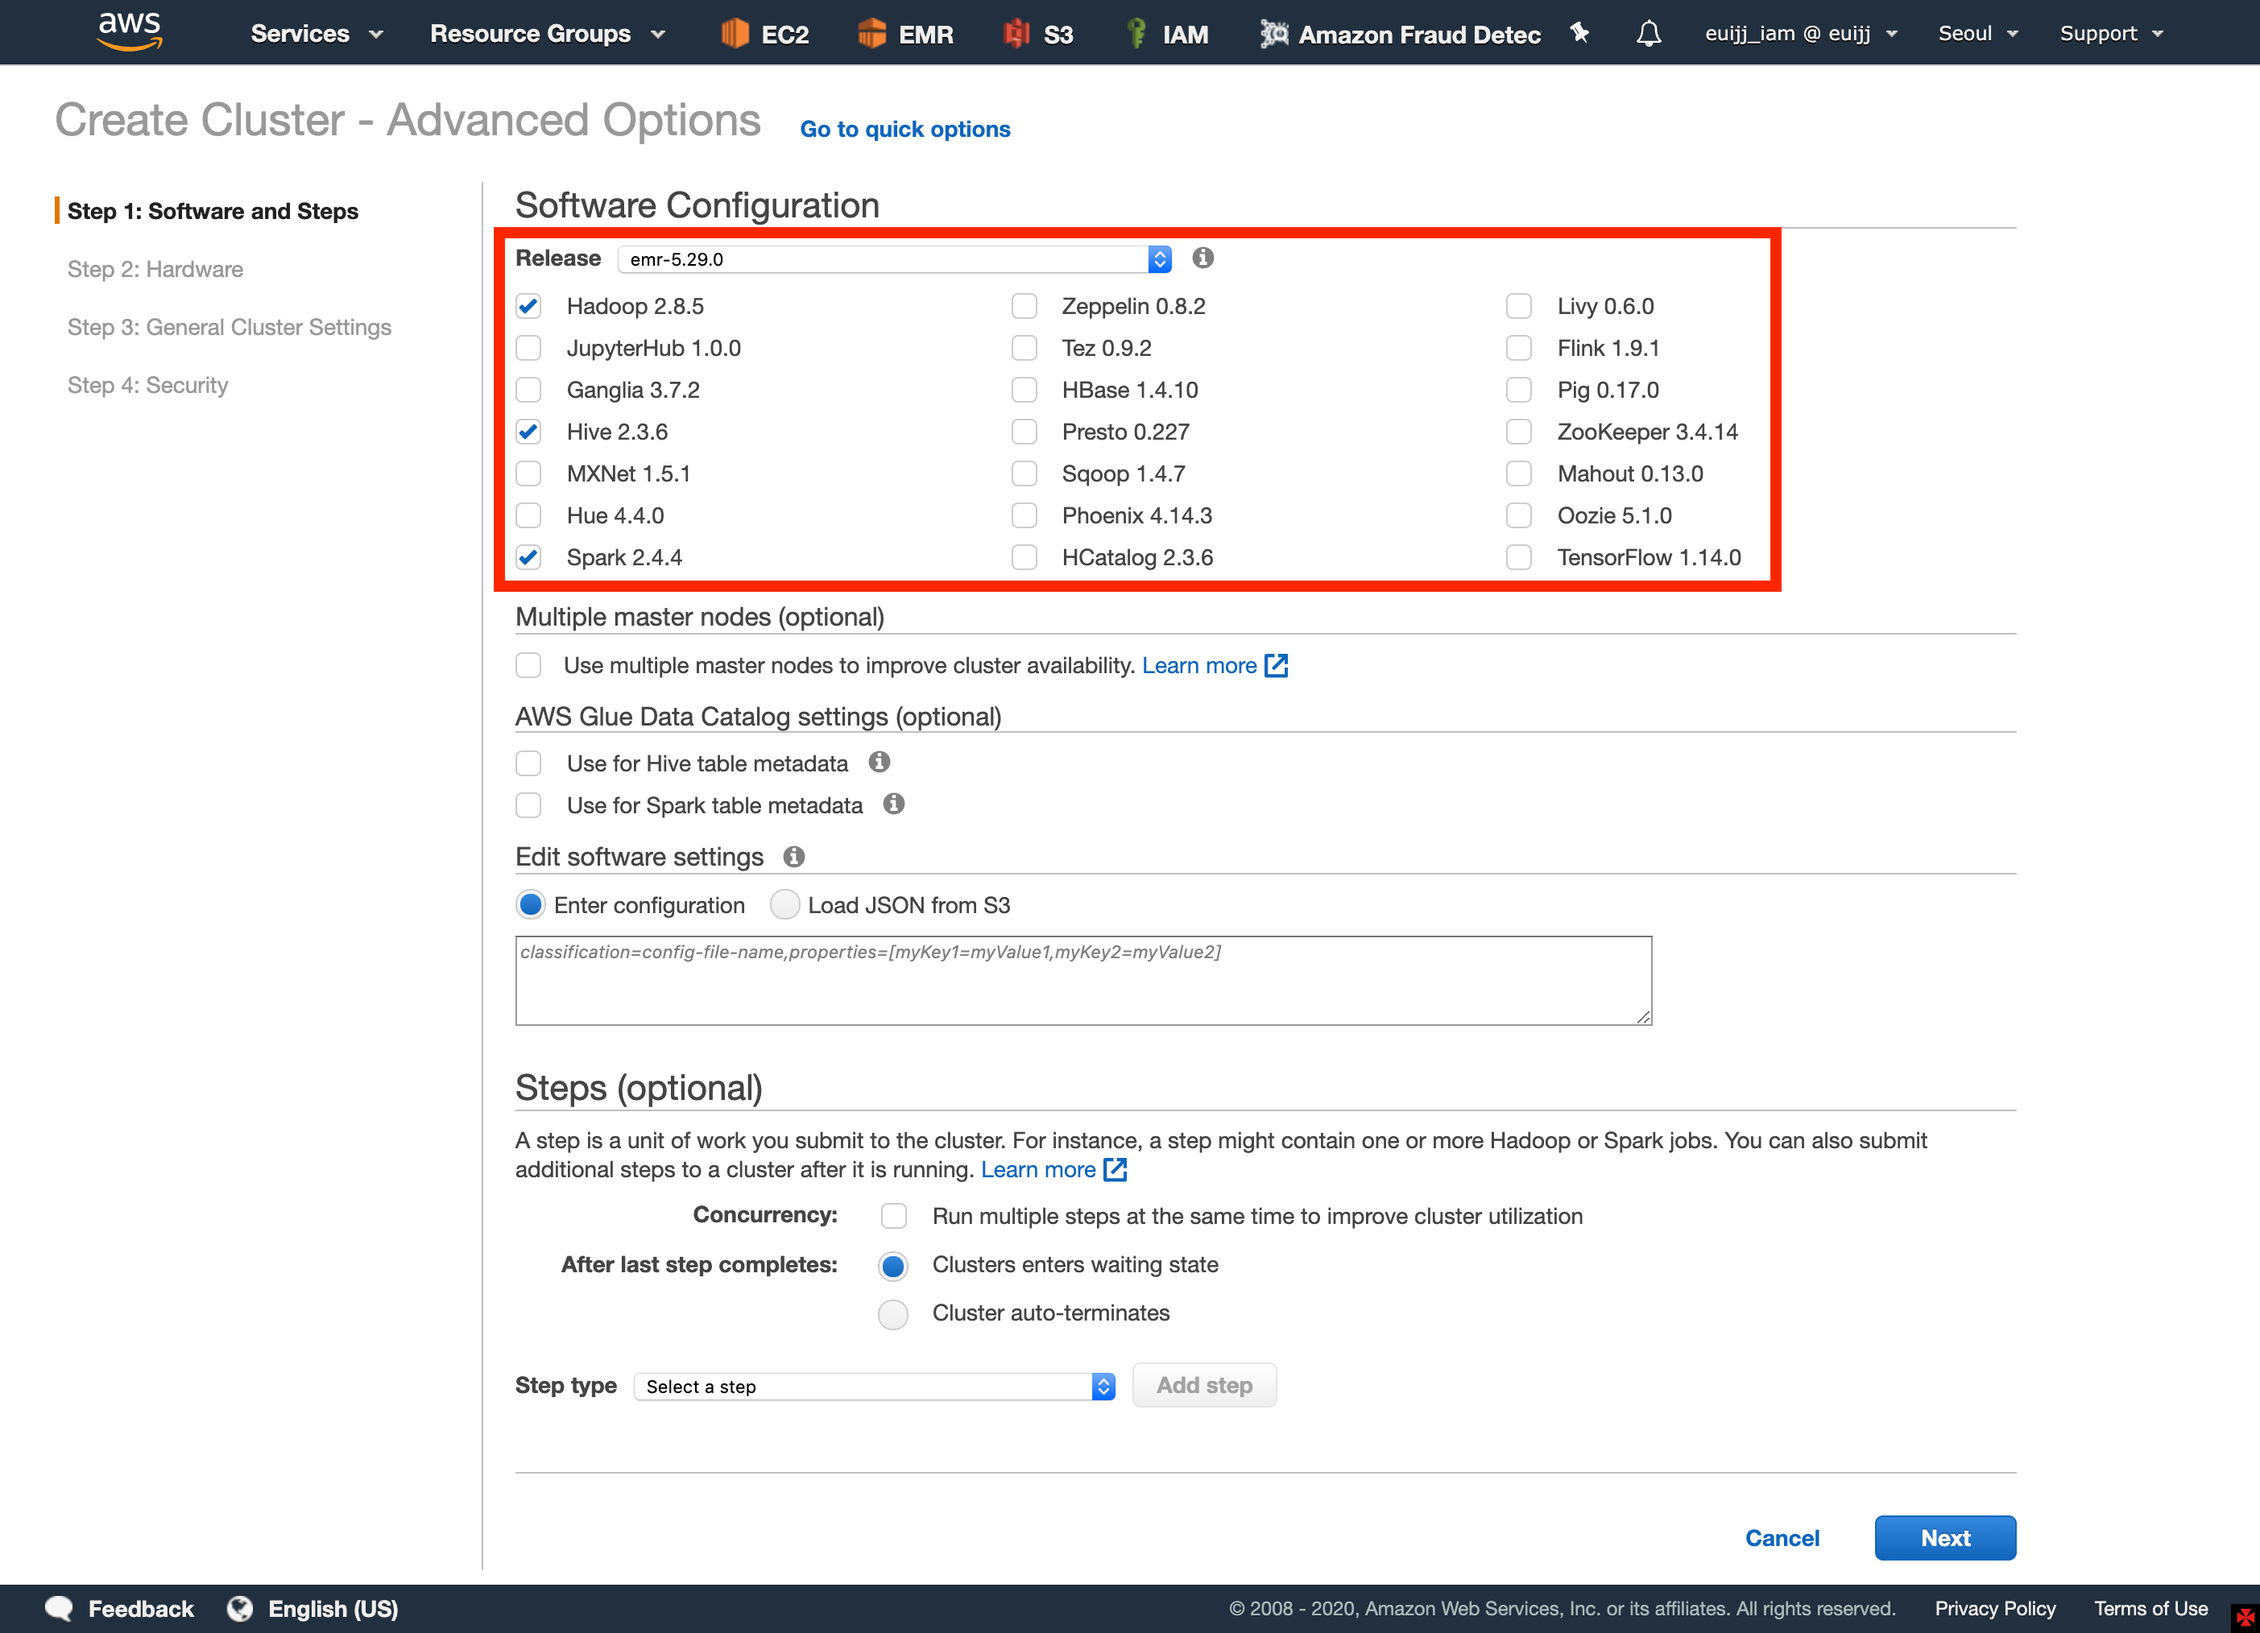
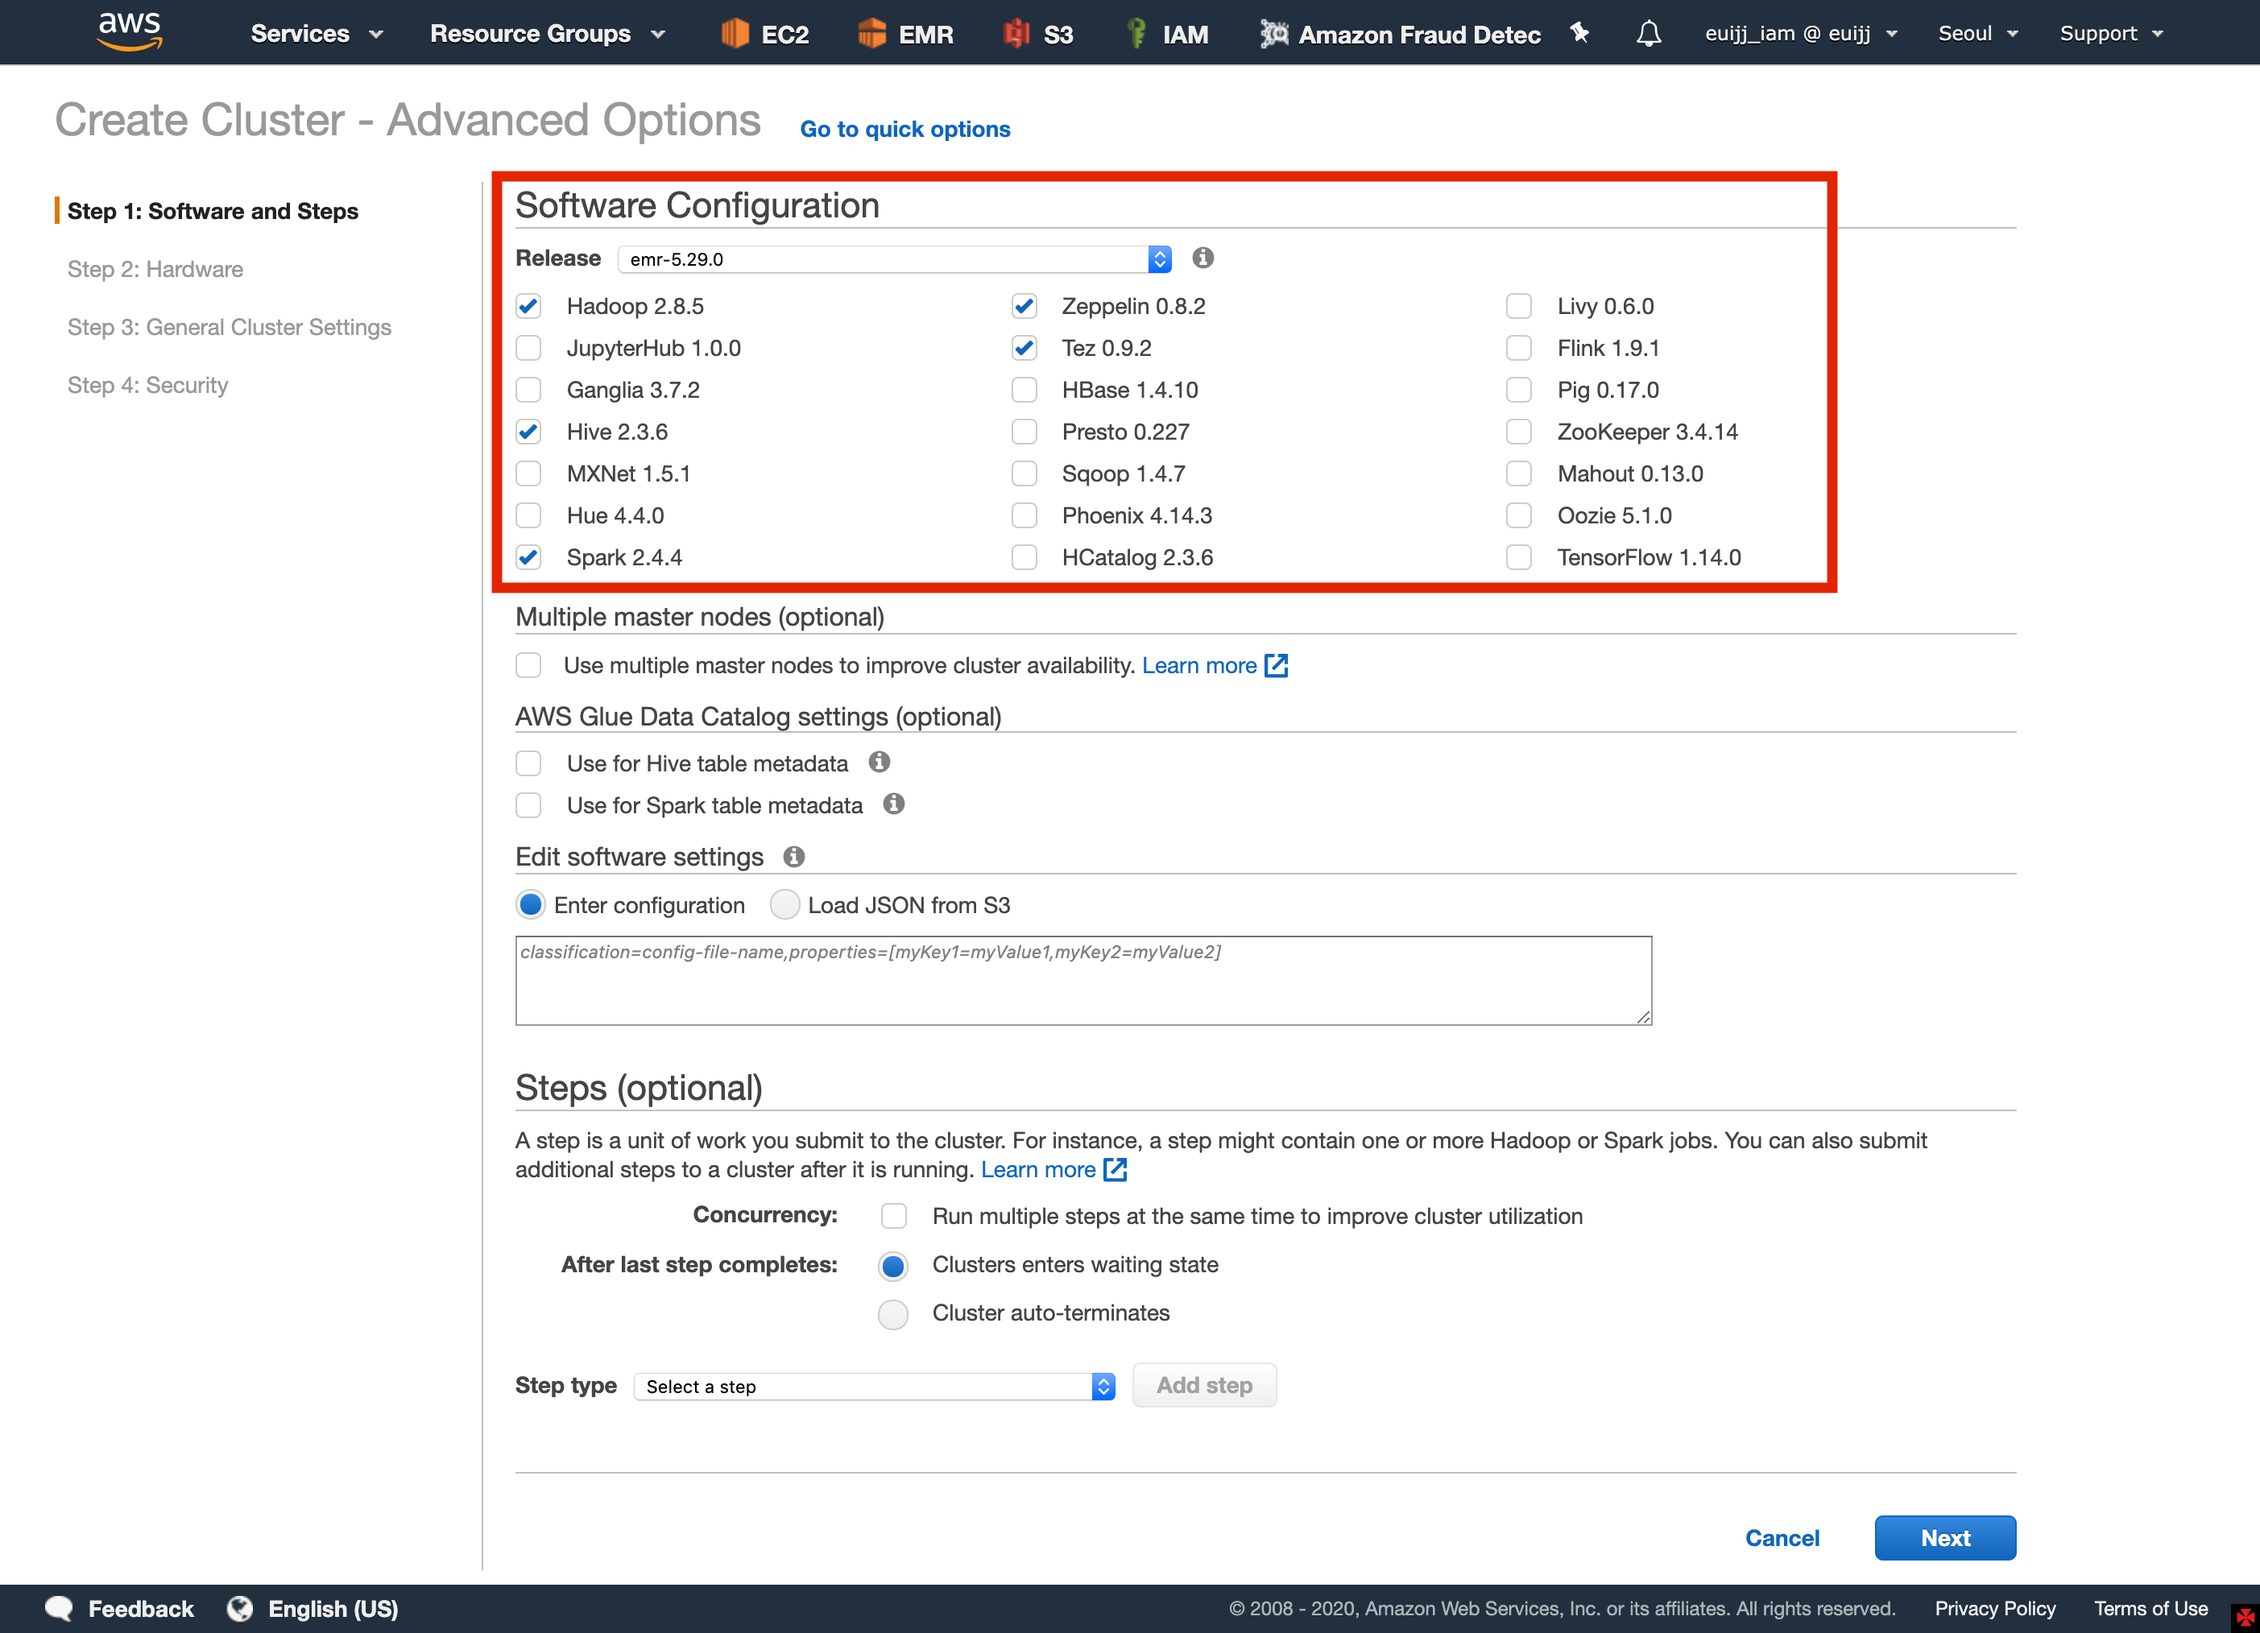
update contents

Changed region(s): [[0.217, 0.0932, 0.8371, 0.3728]]

diff --git a/content/lab3/_index.ko.md b/content/lab3/_index.ko.md
@@ -52,7 +52,7 @@ Step을 추가하거나 하둡 작업을 마스터 노드에 대화형으로 제
     )
     ROW FORMAT DELIMITED
     FIELDS TERMINATED BY ','
-    LOCATION '{INPUT}/order/';
+    LOCATION 's3://id-emr-lab-data-20200306/brazilian-ecommerce/order/';
 
     CREATE EXTERNAL TABLE IF NOT EXISTS product (
       product_id                  STRING,
@@ -67,7 +67,7 @@ Step을 추가하거나 하둡 작업을 마스터 노드에 대화형으로 제
     )
     ROW FORMAT DELIMITED
     FIELDS TERMINATED BY ','
-    LOCATION '{INPUT}/product/';
+    LOCATION 's3://id-emr-lab-data-20200306/brazilian-ecommerce/product/';
 
     CREATE TABLE IF NOT EXISTS category_price_sum_avg AS
     SELECT P.product_category_name, SUM(O.price) AS sum_price, AVG(O.price) AS avg_price
@@ -147,12 +147,14 @@ Step을 추가하거나 하둡 작업을 마스터 노드에 대화형으로 제
     ![img](./images/lab3_pic2.png)
 --- 
 
-> Step type: Hive program
-> Name: hive-process
-> Script S3 location: s3://bucketname/scripts/hive-process.q
-> Input S3 location: s3://id-emr-lab-data-20200306/brazilian-ecommerce/
-> Output S3 location: s3://id-emr-lab-data-20200306/brazilian-ecommerce/category_price_sum_avg/
-> Action on failure: Continue
+    ```
+    Step type: Hive program
+    Name: hive-process
+    Script S3 location: s3://bucketname/scripts/hive-process.q
+    Input S3 location: s3://id-emr-lab-data-20200306/brazilian-ecommerce/
+    Output S3 location: s3://id-emr-lab-data-20200306/brazilian-ecommerce/category_price_sum_avg/
+    Action on failure: Continue
+    ```
 
 5. Pending에서 Complete가 될 때까지 기다립니다. 
 Complete가 되었다면 데이터를 확인하여 결과물이 잘 나왔는지 확인합니다.
@@ -165,12 +167,14 @@ Complete가 되었다면 데이터를 확인하여 결과물이 잘 나왔는지
     ![img](./images/lab3_pic4.png)
 ---
 
-> Step type: Spark application
-> Name: pyspark-process
-> Deploy mode: Cluster
-> Application location: s3://bucketname/scripts/pyspark-process.py
-> Arguments: s3://emr-lab-20200224/2020/03/*/* s3://id-emr-lab-data-20200306/brazilian-ecommerce/apachelog/
-> Action on failure: Continue
+    ```
+    Step type: Spark application
+    Name: pyspark-process
+    Deploy mode: Cluster
+    Application location: s3://bucketname/scripts/pyspark-process.py
+    Arguments: s3://emr-lab-20200224/2020/03/*/* s3://id-emr-lab-data-20200306/brazilian-ecommerce/apachelog/
+    Action on failure: Continue
+    ```
 
 7. Pending에서 Complete가 될 때까지 기다립니다. 
 Complete가 되었다면 데이터를 확인하여 결과물이 잘 나왔는지 확인합니다.
@@ -253,7 +257,7 @@ Parameter에 대한 자세한 설명은 [aws emr cli](https://docs.aws.amazon.co
 1. ***EMR Hands-On Lab 1*** 에서 생성했던 EC2 instance에 연결합니다.
 
     ```
-    ssh -i ~/WorkDocs/dev/key/euijj.pem ec2-user@PUBLIC_DNS
+    ssh -i key.pem ec2-user@PUBLIC_DNS
     ```
 
 2. `vi ~/run_emr_cli.sh` 명령어를 입력하여 run_emr_cli.sh 파일을 생성합니다.  

diff --git a/content/lab4/_index.ko.md b/content/lab4/_index.ko.md
@@ -7,12 +7,35 @@ pre: "<b>4. </b>"
 
 이번 실습에서는 그동안 뽑아 두었던 데이터를 시각화하는 방법에 대해 학습합니다. 
 
+* Zeppelin
+> Web-based notebook that enables data-driven, interactive data analytics and collaborative documents with SQL, Scala and more.
+
+* Pandas
+> pandas is a fast, powerful, flexible and easy to use open source data analysis and manipulation tool,
+built on top of the Python programming language.
+
+* Matplotlib
+> Matplotlib is a comprehensive library for creating static, animated, and interactive visualizations in Python.
+
 
 ## Table of Contents
 
-1. Zeppelin Notebook
-2. Pandas
-3. Matplotlib
+1. 사전 준비
+2. Zeppelin Notebook
+3. Pandas
+4. Matplotlib
+
+
+# 사전 준비
+
+앞서 Lab 2에서 생성한 `EMR-lab-adhoc-20200306` 클러스터는 Zeppelin을 포함하고 있습니다.
+Zeppelin에 연결하기 위해 아래 지시를 따라합니다.
+
+1. EMR 메인 페이지로 이동합니다. [link](https://ap-northeast-2.console.aws.amazon.com/elasticmapreduce/home?region=ap-northeast-2)
+2. Clusters를 선택합니다.
+3. `EMR-lab-adhoc-20200306` 클러스터를 선택하고 
+4. Summary 탭의 Enable Web Connection를 클릭하여 지시 사항을 따라합니다.
+그러면 Port forwarding을 통해 Zeppelin에 접속할 수 있습니다.
 
 
 # Zeppelin Notebook<a name="Zeppelin Notebook"></a>

diff --git a/content/lab2/_index.ko.md b/content/lab2/_index.ko.md
@@ -71,7 +71,8 @@ pre: "<b>2. </b>"
 	![img](./images/lab2_pic1.png)
 ---
 
-5. Release에 emr 최신 버전을 선택하고, Hive와 Spark를 사용할 것이므로, Hadoop, Hive와 Spark를 선택합니다. Next를 눌러 다음 단계로 넘어갑니다.
+5. Release에 emr 최신 버전을 선택하고, Hive와 Spark를 사용할 것이므로, 기본 선택된 Hadoop와 Hive, Spark, Tez를 선택합니다. 
+Lab 4에서 사용할 예정인 Zeppelin도 미리 설치합니다. Next를 눌러 다음 단계로 넘어갑니다.
 
 	![img](./images/lab2_pic2.png)
 ---

diff --git a/content/_index.ko.md b/content/_index.ko.md
@@ -11,7 +11,7 @@ Amazon EMR은 업계 최고 수준의 클라우드 네이티브 빅데이터 플
 
 이번 실습을 통해 다음의 아키텍쳐를 실습하고 이해할 수 있습니다.
      
-![arch](./images/EMR-hands-on-architecture2.jpg)
+![arch](./images/EMR-hands-on-architecture.jpg)
 
 ## Hands on Lab의 목표
 
